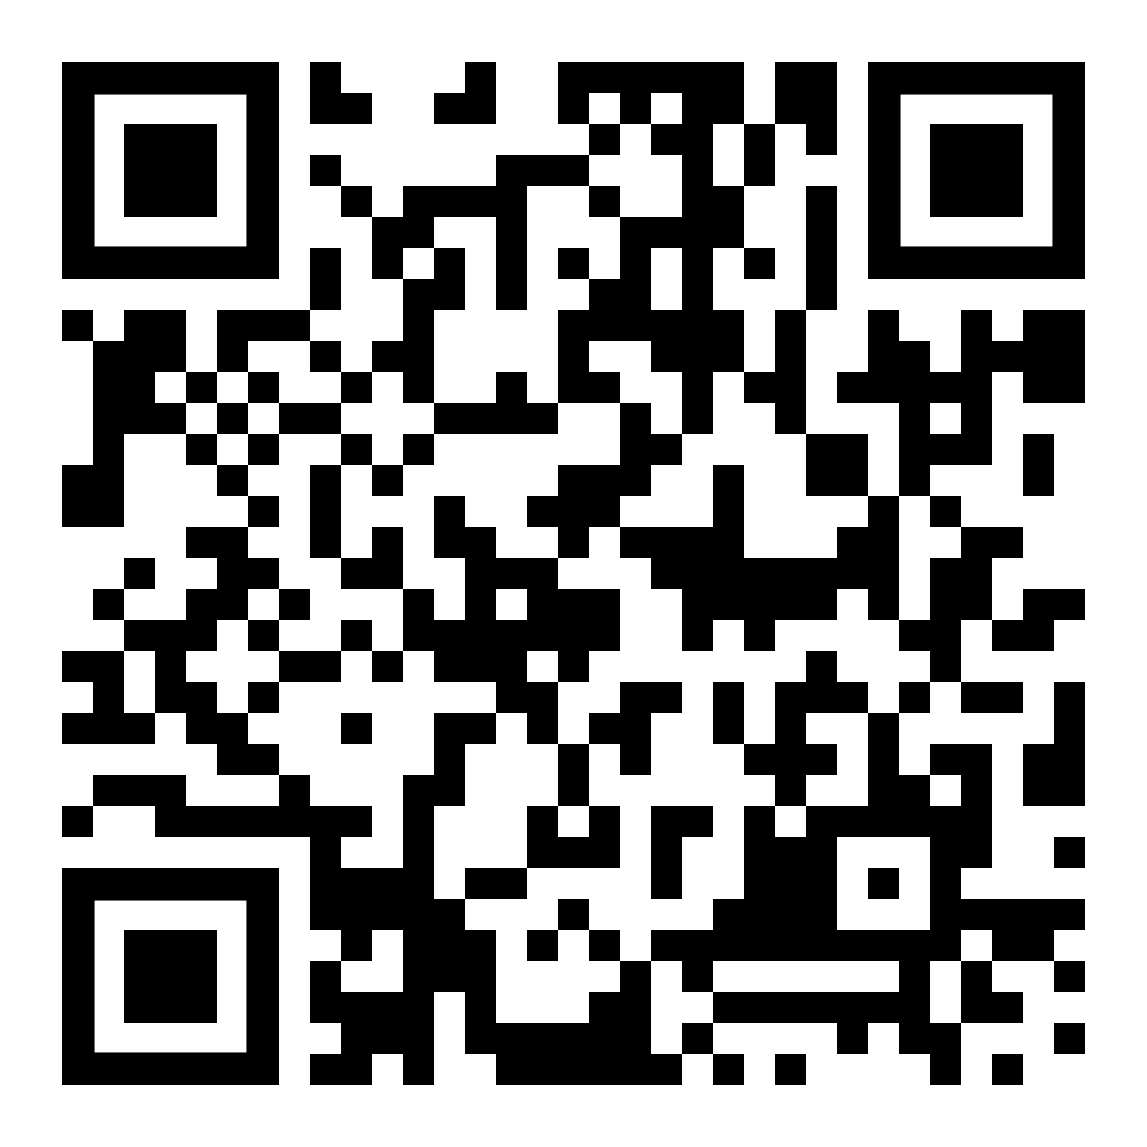
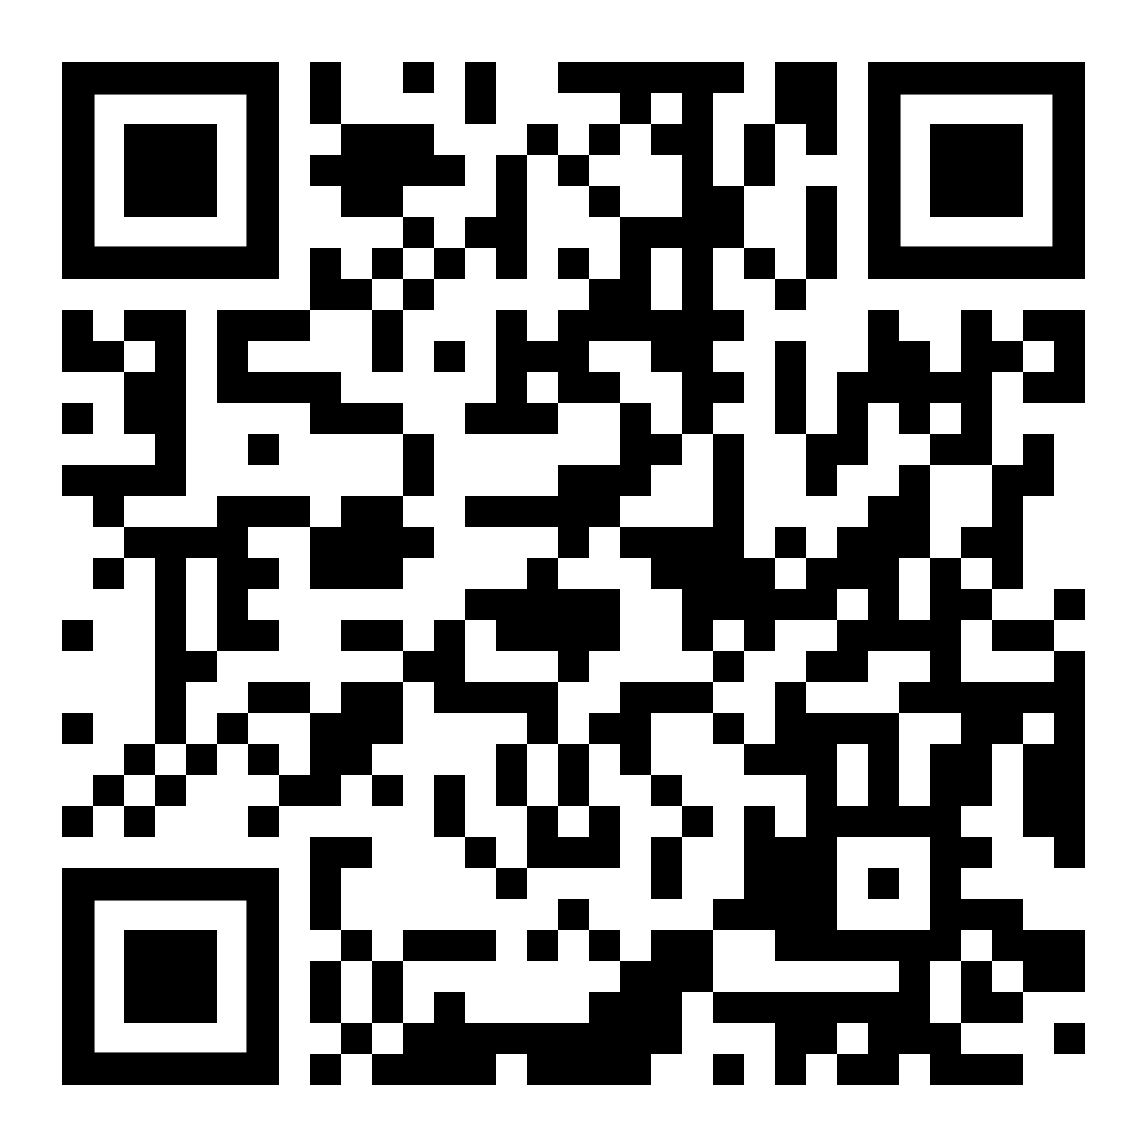
Update links and layouts

diff --git a/_includes/footer.html b/_includes/footer.html
@@ -6,10 +6,10 @@
       <p>
         {{ site.description }}
         <span class="version">
-          ({% fdroid_repo_info %}, store-website <a href="https://gitlab.com/kalilinux/nethunter/store/store-website/tree/{% git_hash %}">{% git_tag %}</a>)
+          ({% fdroid_repo_info %}, store-website <a href="https://gitlab.com/kalilinux/nethunter/store/nethunter-store-website/tree/{% git_hash %}">{% git_tag %}</a>)
         </span>
 	<span class="edit-this-page-area">
-	  <a href="https://gitlab.com/kalilinux/nethunter/store/store-website/edit/master/{{page.relative_path}}">
+	  <a href="https://gitlab.com/kalilinux/nethunter/store/nethunter-store-website/edit/master/{{page.relative_path}}">
 	    Edit on GitLab
 	  </a>
 	</span>

diff --git a/_includes/header.html b/_includes/header.html
@@ -11,7 +11,7 @@
         {% if nav-item.external %}
           <a class="page-link" href="{{ nav-item.url }}">{{ title }}</a>
         {% else %}
-          <a class="page-link {% if page.url contains nav-item.url %} current {% endif %}" href="{{ nav-item.url | prepend: site.baseurl }}">{{ title }}</a>
+          <a class="page-link {% if nav-item.url != '/' and page.url contains nav-item.url %} current {% elsif nav-item.url == '/' and page.url == nav-item.url %} current {% endif %}" href="{{ nav-item.url | prepend: site.baseurl }}">{{ title }}</a>
         {% endif %}
       {% endif %}
     {% endfor %}

diff --git a/_layouts/package.html b/_layouts/package.html
@@ -137,7 +137,7 @@ layout: default-package-sidebar
 		<!-- The FDroid.apk links need the space at the start of the href=""
 				 to disable the polyglot link "relativization":
 				 https://github.com/untra/polyglot/issues/79 -->
-		<a href="https://store.nethunter.com/NetHunter-Store.apk" class="material-button">{{ site.data.strings.index.download_fdroid }}</a>
+		<a href=" https://store.nethunter.com/NetHunterStore.apk" class="material-button">{{ site.data.strings.index.download_fdroid }}</a>
 		<ul class="package-versions-list">
 			{% for package in page.packages %}
 			<li class="package-version">

diff --git a/index.md b/index.md
@@ -17,10 +17,10 @@ https://github.com/untra/polyglot/issues/79 -->
 <div class="download-and-screenshot">
     <div class="download">
         <div class="button">
-            <a class="material-button" href=" https://store.nethunter.com/en/NetHunter-Store.apk">{{ strings.download_fdroid }}</a>
+            <a class="material-button" href=" https://store.nethunter.com/NetHunterStore.apk">{{ strings.download_fdroid }}</a>
         </div>
         <div class="gpg">
-            <a href=" https://store.nethunter.com/en/NetHunter-Store.apk.asc">{{ strings.gpg_signature }}</a>
+            <a href=" https://store.nethunter.com/NetHunterStore.apk.asc">{{ strings.gpg_signature }}</a>
         </div>
         <div class="qr">
             <img src="{{ site.baseurl }}/assets/download-nethunter-store-qr.png" />
